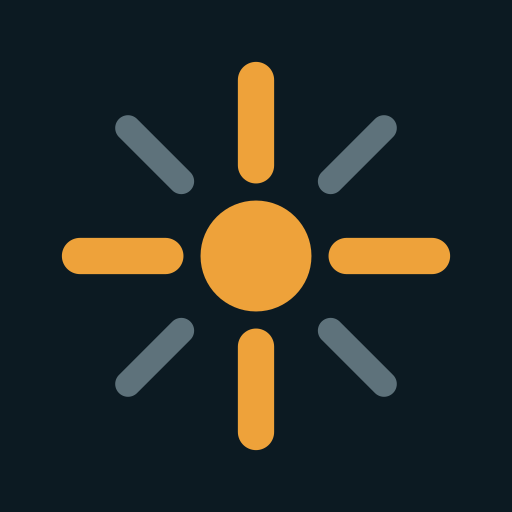
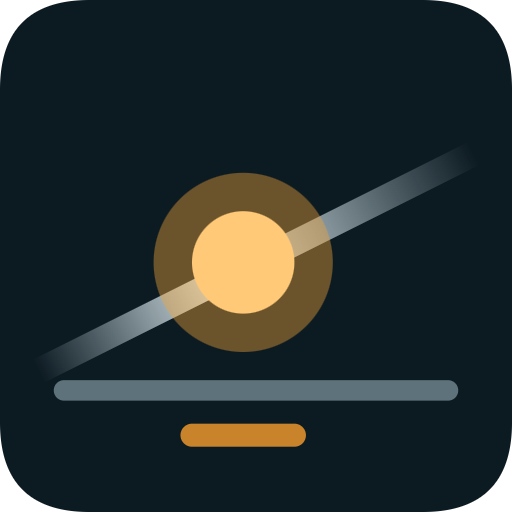
Add files via upload

diff --git a/index.html b/index.html
@@ -13,6 +13,8 @@
 <meta property="og:type" content="website">
 <meta property="og:title" content="Liam Cornish · Head of Technical Operations & Lead Product Designer">
 <meta property="og:description" content="Specialist product designer and qualified electrical engineer. 25+ years of renewable, off-grid and autonomous power in the world's most demanding environments.">
+<meta property="og:image" content="whitstable-sunset.jpg">
+<link rel="preload" as="image" href="whitstable-sunset.jpg">
 <link rel="preconnect" href="https://fonts.googleapis.com">
 <link rel="preconnect" href="https://fonts.gstatic.com" crossorigin>
 <link href="https://fonts.googleapis.com/css2?family=Archivo:wght@600;700;800;900&family=IBM+Plex+Mono:wght@400;500;600&family=IBM+Plex+Sans:wght@400;500;600;700&display=swap" rel="stylesheet">
@@ -31,6 +33,7 @@
     --amber:#EEA23A;
     --amber-bright:#FFC978;
     --amber-deep:#C9832A;
+    --flare:#BFE2EE;
     --ok:#5FBF9B;
     --r:4px;
     --max:1180px;
@@ -144,15 +147,28 @@
     background:var(--ink);color:var(--paper);
     padding:150px 0 0;position:relative;overflow:hidden;
   }
-  .hero::before{
+  .hero-photo{
+    position:absolute;top:0;right:0;bottom:0;left:32%;z-index:0;pointer-events:none;
+    background-image:url("whitstable-sunset.jpg");
+    background-size:cover;
+    background-position:46% 46%;
+  }
+  .hero-photo::after{
     content:"";position:absolute;inset:0;
+    background:
+      linear-gradient(90deg,var(--ink) 0%,rgba(12,26,34,.92) 18%,rgba(12,26,34,.6) 44%,rgba(12,26,34,.3) 74%,rgba(12,26,34,.34) 100%),
+      linear-gradient(to bottom,rgba(12,26,34,.52) 0%,rgba(12,26,34,.04) 22%,rgba(12,26,34,.78) 78%,var(--ink) 100%);
+  }
+  .hero > .wrap,.hero .clients{position:relative;z-index:2}
+  .hero::before{
+    content:"";position:absolute;inset:0;z-index:1;
     background-image:
       linear-gradient(rgba(41,68,80,.28) 1px,transparent 1px),
       linear-gradient(90deg,rgba(41,68,80,.28) 1px,transparent 1px);
     background-size:46px 46px;
     -webkit-mask-image:radial-gradient(ellipse 70% 80% at 72% 8%,#000,transparent 72%);
     mask-image:radial-gradient(ellipse 70% 80% at 72% 8%,#000,transparent 72%);
-    opacity:.5;pointer-events:none;
+    opacity:.42;pointer-events:none;
   }
   .hero-inner{position:relative;z-index:2}
   .hero .title-line{overflow:hidden}
@@ -227,6 +243,35 @@
   .hero-stat .lbl{
     font-family:"IBM Plex Mono",monospace;font-size:.68rem;letter-spacing:.14em;text-transform:uppercase;
     color:#93A6AB;margin-top:12px;line-height:1.4;
+  }
+
+  /* ---------- horizon band ---------- */
+  .horizon{
+    position:relative;padding:0;overflow:hidden;background:var(--ink);
+    min-height:clamp(320px,40vw,480px);
+    display:grid;align-items:end;
+    border-top:1px solid var(--line-dark);border-bottom:1px solid var(--line-dark);
+  }
+  .horizon .shot{
+    position:absolute;inset:0;
+    background:url("whitstable-horizon.jpg") center 62%/cover no-repeat;
+  }
+  .horizon .shot::after{
+    content:"";position:absolute;inset:0;
+    background:linear-gradient(to top,rgba(12,26,34,.95) 0%,rgba(12,26,34,.78) 34%,rgba(12,26,34,.42) 58%,rgba(12,26,34,.14) 100%);
+  }
+  .horizon .cap{position:relative;z-index:2;width:100%;padding-top:120px;padding-bottom:50px}
+  .horizon h2{
+    color:var(--paper);font-weight:800;
+    font-size:clamp(1.6rem,3.6vw,2.7rem);letter-spacing:-.02em;
+    max-width:24ch;margin-top:18px;
+  }
+  .horizon h2 .amber{color:var(--amber-bright)}
+  .horizon .eyebrow.on-dark{color:var(--paper)}
+  .horizon .eyebrow .rule{background:rgba(241,244,243,.5)}
+  .horizon .place{
+    margin-top:18px;font-family:"IBM Plex Mono",monospace;
+    font-size:.7rem;letter-spacing:.18em;text-transform:uppercase;color:#9FB2B7;
   }
 
   /* ---------- clients strip ---------- */
@@ -410,8 +455,15 @@
   .contact{background:var(--ink);color:var(--paper);position:relative;overflow:hidden}
   .contact::before{
     content:"";position:absolute;inset:0;
-    background:radial-gradient(ellipse 60% 90% at 88% 110%,rgba(238,162,58,.14),transparent 60%);
+    background-image:url("whitstable-sunset.jpg");
+    background-size:cover;background-position:52% 88%;
     pointer-events:none;
+  }
+  .contact::after{
+    content:"";position:absolute;inset:0;pointer-events:none;
+    background:
+      linear-gradient(96deg,var(--ink) 0%,rgba(12,26,34,.95) 38%,rgba(12,26,34,.74) 72%,rgba(12,26,34,.6) 100%),
+      radial-gradient(ellipse 60% 90% at 88% 110%,rgba(238,162,58,.2),transparent 62%);
   }
   .contact-inner{position:relative;z-index:2}
   .contact h2{font-size:clamp(2.4rem,6vw,4.6rem);font-weight:900;text-transform:uppercase;letter-spacing:-.03em;margin-top:22px}
@@ -458,6 +510,13 @@
     .skills-grid{grid-template-columns:1fr}
     .acc-grid{grid-template-columns:1fr 1fr}
     .contact-cards{grid-template-columns:1fr}
+    .horizon .cap{padding-top:90px;padding-bottom:40px}
+    .hero-photo{left:0}
+    .hero-photo::after{
+      background:
+        linear-gradient(90deg,var(--ink) 0%,rgba(12,26,34,.9) 30%,rgba(12,26,34,.62) 70%,rgba(12,26,34,.5) 100%),
+        linear-gradient(to bottom,rgba(12,26,34,.72) 0%,rgba(12,26,34,.4) 30%,rgba(12,26,34,.88) 76%,var(--ink) 100%);
+    }
     .hero-stats{grid-template-columns:1fr 1fr}
     .hero-stat:nth-child(2){border-right:0}
     .hero-stat:nth-child(1),.hero-stat:nth-child(2){border-bottom:1px solid var(--line-dark)}
@@ -486,15 +545,18 @@
     .feedback li{font-size:1.16rem;padding:16px 0}
     .section-title{font-size:clamp(1.75rem,7vw,2.2rem)}
     .contact h2{font-size:clamp(2.1rem,11vw,3rem)}
+    .horizon{min-height:300px}
+    .horizon .cap{padding-top:72px;padding-bottom:32px}
     .cc .v{font-size:1.08rem}
   }
 
   :focus-visible{outline:3px solid var(--amber);outline-offset:3px;border-radius:2px}
 
   @media print{
-    header.nav,.hero-actions,.burger,.conductor{display:none}
+    header.nav,.hero-actions,.burger,.conductor,.hero-photo,.horizon{display:none}
     body{background:#fff;color:#000}
     .band-ink,.hero,.feedback,.contact,.acc,footer{background:#fff!important;color:#000!important}
+    .contact::before,.contact::after{display:none}
     section{padding:24px 0;page-break-inside:avoid}
     .hero{padding:20px 0 0}
     .hero h1{color:#000}
@@ -508,10 +570,19 @@
   <div class="nav-inner">
     <a class="brand" href="#top" aria-label="Liam Cornish, home">
       <svg class="mark" viewBox="0 0 40 40" fill="none" aria-hidden="true">
+        <defs>
+          <linearGradient id="lcFlare" x1="4" y1="28.5" x2="36" y2="12.5" gradientUnits="userSpaceOnUse">
+            <stop offset="0" stop-color="#BFE2EE" stop-opacity="0"/>
+            <stop offset=".42" stop-color="#DFF2F8" stop-opacity=".95"/>
+            <stop offset="1" stop-color="#BFE2EE" stop-opacity="0"/>
+          </linearGradient>
+        </defs>
         <rect x="1" y="1" width="38" height="38" rx="6" stroke="#294450" stroke-width="1.5"/>
-        <circle cx="20" cy="20" r="4" fill="#EEA23A"/>
-        <path d="M20 4v10M20 26v10M4 20h10M26 20h10" stroke="#EEA23A" stroke-width="1.5" stroke-linecap="round"/>
-        <path d="M8.5 8.5l5.5 5.5M31.5 8.5L26 14M8.5 31.5l5.5-5.5M31.5 31.5L26 26" stroke="#5E727B" stroke-width="1.3" stroke-linecap="round"/>
+        <path d="M4 28.5L36 12.5" stroke="url(#lcFlare)" stroke-width="1.7" stroke-linecap="round"/>
+        <circle cx="19" cy="20.5" r="6.2" fill="#EEA23A" opacity=".38"/>
+        <circle cx="19" cy="20.5" r="3.4" fill="#FFC978"/>
+        <path d="M6 30.5h28" stroke="#5E727B" stroke-width="1.3" stroke-linecap="round"/>
+        <path d="M15.5 33.6h7M17 36.2h4" stroke="#C9832A" stroke-width="1.3" stroke-linecap="round"/>
       </svg>
       <span class="name">Liam Cornish<span>AUTONOMOUS POWER</span></span>
     </a>
@@ -529,6 +600,7 @@
 
 <!-- ================= HERO ================= -->
 <section class="hero" id="top">
+  <div class="hero-photo" aria-hidden="true"></div>
   <div class="wrap hero-inner">
     <p class="eyebrow on-dark"><span class="node"></span><span class="rule"></span> Head of Technical Operations &amp; Lead Product Designer</p>
     <h1>Liam<br>Cornish</h1>
@@ -701,6 +773,18 @@
   </div>
 </section>
 
+<!-- ================= HORIZON BAND ================= -->
+<section class="horizon" aria-label="Whitstable, Kent">
+  <div class="shot" role="img" aria-label="The sun low over the tidal flats at Whitstable, Kent"></div>
+  <div class="cap">
+    <div class="wrap">
+      <p class="eyebrow on-dark"><span class="node"></span><span class="rule"></span><span style="white-space:nowrap">The resource</span></p>
+      <h2>The sun turns up for free. Engineering it into <span class="amber">100% uptime</span> is the job.</h2>
+      <p class="place">Whitstable, Kent · 51.36°N 1.03°E</p>
+    </div>
+  </div>
+</section>
+
 <!-- ================= SKILLS ================= -->
 <section id="skills" class="band-ink">
   <div class="wrap">
@@ -857,6 +941,12 @@
 <footer>
   <div class="wrap foot-inner">
     <div class="foot-left">
+      <svg width="22" height="22" viewBox="0 0 40 40" fill="none" aria-hidden="true" style="flex:none">
+        <circle cx="19" cy="20.5" r="6.2" fill="#EEA23A" opacity=".38"/>
+        <circle cx="19" cy="20.5" r="3.4" fill="#FFC978"/>
+        <path d="M6 30.5h28" stroke="#5E727B" stroke-width="1.6" stroke-linecap="round"/>
+        <path d="M15.5 34h7" stroke="#C9832A" stroke-width="1.6" stroke-linecap="round"/>
+      </svg>
       <span class="fname">Liam Cornish</span>
       <span class="meta">Head of Technical Operations &amp; Lead Product Designer · Whitstable, Kent · © 2026</span>
     </div>
